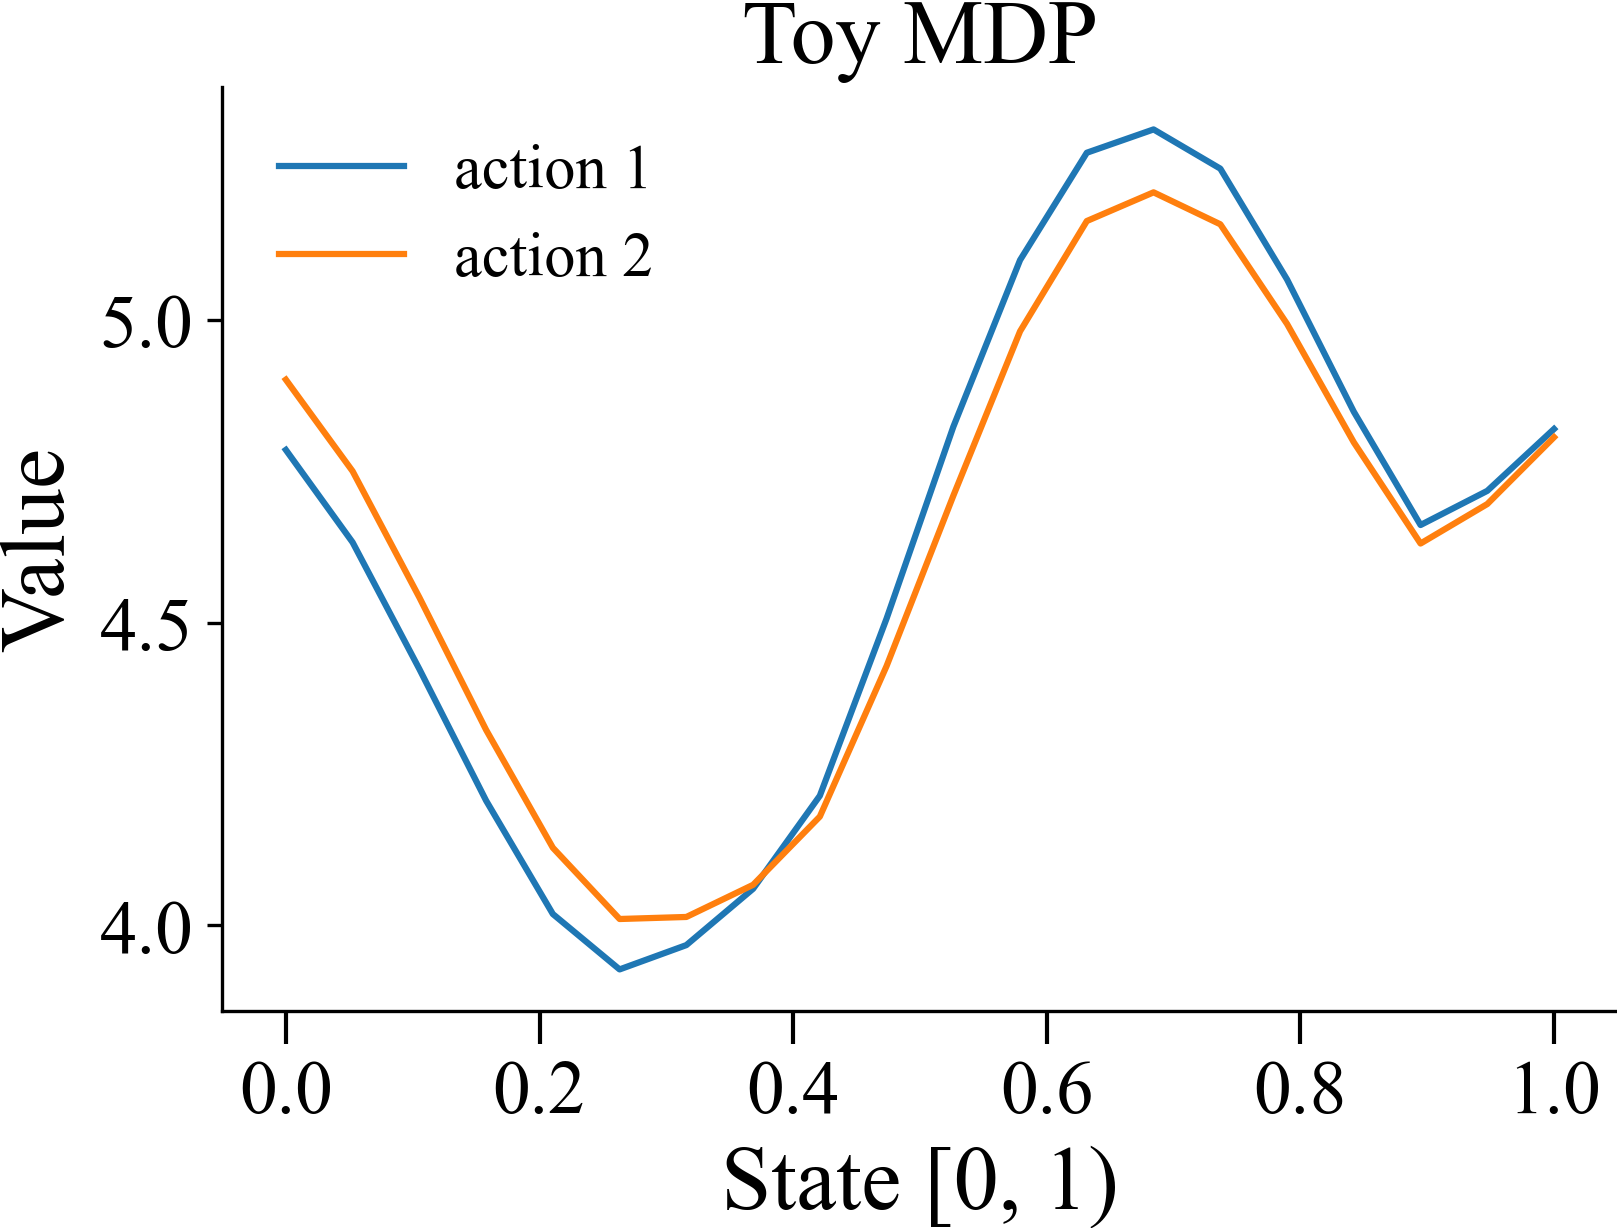
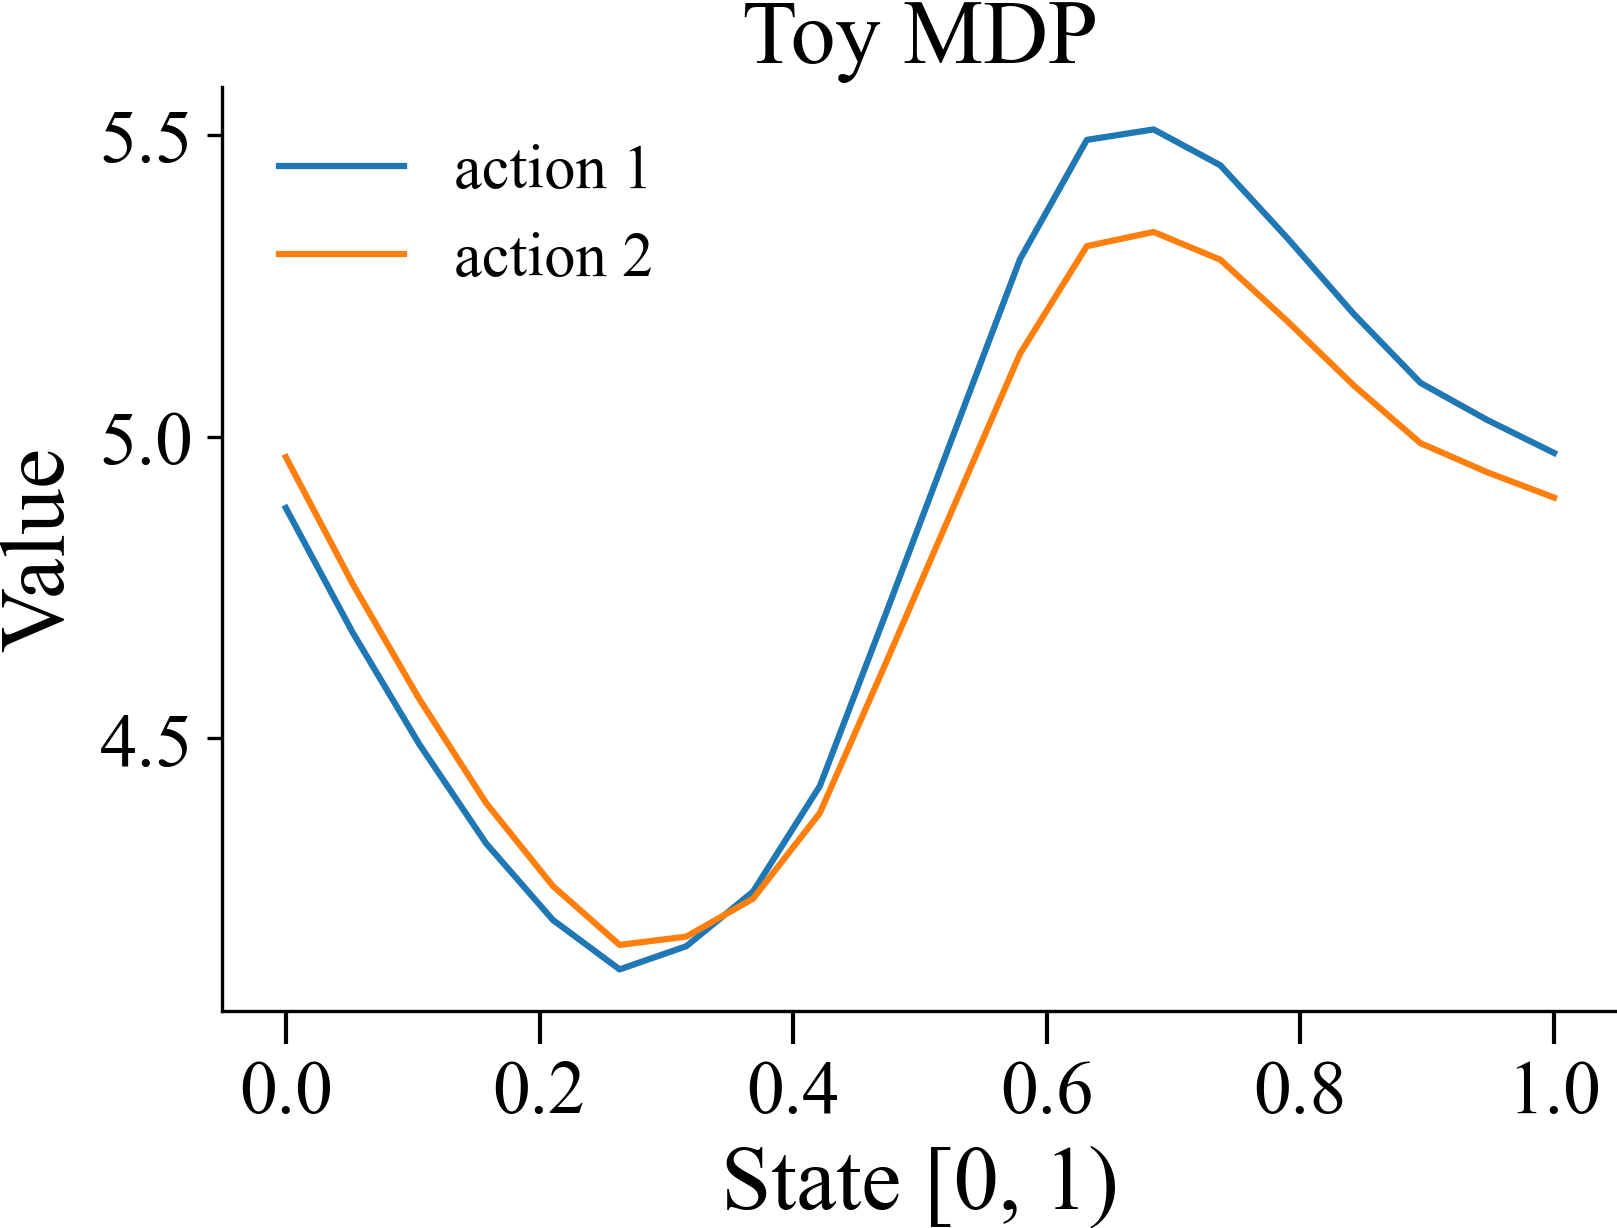
add supervised baseline supervised by the vi-values

diff --git a/toy_mdp/value_iteration.py b/toy_mdp/value_iteration.py
@@ -21,17 +21,55 @@ def perform_vi(states, rewards, dyn_mats, gamma=0.9, eps=1e-5):
     return q_values, deltas
 
 
-def perform_deep_vi(states, rewards, dyn_mats, lr=1e-4, gamma=0.9):
+def supervised(states, values, dyn_mats, lr=4e-4, gamma=0.9, n_epochs=100):
     import torch.nn as nn
     # Ge: need to initialize the Q function at zero
     Q = nn.Sequential(
-        nn.Linear(1, 2000),
+        nn.Linear(1, 400),
         nn.ReLU(),
-        nn.Linear(2000, 2000),
+        nn.Linear(400, 400),
         nn.ReLU(),
-        nn.Linear(2000, 2000),
+        nn.Linear(400, 400),
         nn.ReLU(),
-        nn.Linear(2000, 2),
+        nn.Linear(400, 400),
+        nn.ReLU(),
+        nn.Linear(400, 2),
+    )
+
+    optim = torch.optim.RMSprop(Q.parameters(), lr=lr)
+    l1 = nn.functional.smooth_l1_loss
+
+    states = torch.FloatTensor(states).unsqueeze(-1)
+    values = torch.FloatTensor(values)
+
+    losses = []
+
+    for epoch in trange(n_epochs + 1):
+        values_bar = Q(states)
+        loss = l1(values_bar, values.T)
+        losses.append(loss.detach().numpy())
+
+        optim.zero_grad()
+        loss.backward()
+        optim.step()
+
+    q_values = values_bar.T.detach().numpy()
+    return q_values, losses
+
+
+def perform_deep_vi(states, rewards, dyn_mats, lr=1e-4, gamma=0.9, n_epochs=400):
+    import torch.nn as nn
+    # Ge: need to initialize the Q function at zero
+    Q = nn.Sequential(
+        nn.Linear(1, 400),
+        nn.ReLU(),
+        nn.Linear(400, 400),
+        nn.ReLU(),
+        nn.Linear(400, 400),
+        nn.ReLU(),
+        nn.Linear(400, 400),
+        nn.ReLU(),
+        nn.Linear(400, 2),
     )
     Q_target = deepcopy(Q)
 
@@ -44,7 +82,7 @@ def perform_deep_vi(states, rewards, dyn_mats, lr=1e-4, gamma=0.9):
 
     losses = []
 
-    for epoch in trange(400):
+    for epoch in trange(n_epochs + 1):
         if epoch % 1 == 0:
             Q_target.load_state_dict(Q.state_dict())
 
@@ -63,18 +101,22 @@ def perform_deep_vi(states, rewards, dyn_mats, lr=1e-4, gamma=0.9):
 
 if __name__ == "__main__":
     doc @ """
+    ## Tabular Q-learning (Ground-truth)
+    
     Here is the ground truth value function generated via tabular
     value iteration. It shows even for simple dynamics, the value
     function can be exponentially more complex.
     """
-    with doc.table().figure_row() as r:
-        from rand_mdp import RandMDP
-        from matplotlib import pyplot as plt
+    from rand_mdp import RandMDP
+    from matplotlib import pyplot as plt
 
+    with doc:
         num_states = 20
         mdp = RandMDP(seed=0, option='fixed')
         states, rewards, dyn_mats = mdp.get_discrete_mdp(num_states=num_states)
         q_values, losses = perform_vi(states, rewards, dyn_mats)
+    q_values_vi = q_values  # used later
+    with doc.table().figure_row() as r:
         plt.plot(states, q_values[0], label="action 1")
         plt.plot(states, q_values[1], label="action 2")
         plt.title("Toy MDP")
@@ -92,18 +134,20 @@ if __name__ == "__main__":
         plt.close()
 
     doc @ """
+    ## DQN w/ Function Approximator
+    
     Here we plot the value function learned via deep Q Learning 
     (DQN) using a neural network function approximator.
     """
-    doc.flush()
 
-    with doc.table().figure_row() as r:
-        from rand_mdp import RandMDP
-        from matplotlib import pyplot as plt
+    from rand_mdp import RandMDP
+    from matplotlib import pyplot as plt
 
-        mdp = RandMDP(seed=0, option='fixed')
-        states, rewards, dyn_mats = mdp.get_discrete_mdp(num_states=num_states)
+    mdp = RandMDP(seed=0, option='fixed')
+    states, rewards, dyn_mats = mdp.get_discrete_mdp(num_states=num_states)
+    with doc:
         q_values, losses = perform_deep_vi(states, rewards, dyn_mats)
+    with doc.table().figure_row() as r:
         plt.plot(states, q_values[0], label="action 1")
         plt.plot(states, q_values[1], label="action 2")
         plt.title("Toy MDP")
@@ -120,4 +164,36 @@ if __name__ == "__main__":
         r.savefig(f'figures/td_loss.png?ts={doc.now("%f")}', dpi=300, zoom=0.3)
         plt.close()
 
+    doc @ """
+    ## A Supervised Baseline
+    
+    **But can the function learn these value functions?** As it turned out, no.
+    Even with a supervised learning objective, the learned value function is
+    not able to produce a good approximation of the value landscape. Not
+    with 20 states, and even less so with 200.
+    """
+    from rand_mdp import RandMDP
+    from matplotlib import pyplot as plt
+
+    num_states = 20
+    mdp = RandMDP(seed=0, option='fixed')
+    states, rewards, dyn_mats = mdp.get_discrete_mdp(num_states=num_states)
+    with doc:
+        q_values, losses = supervised(states, q_values_vi, dyn_mats)
+    with doc.table().figure_row() as r:
+        plt.plot(states, q_values[0], label="action 1")
+        plt.plot(states, q_values[1], label="action 2")
+        plt.title("Toy MDP")
+        plt.legend()
+        plt.xlabel('State [0, 1)')
+        plt.ylabel('Value')
+        r.savefig(f'figures/supervised.png?ts={doc.now("%f")}', dpi=300, zoom=0.3)
+        plt.close()
+
+        plt.plot(losses)
+        plt.hlines(0, 0, len(losses), linestyle='--', color='gray')
+        plt.title("Loss")
+        plt.xlabel('Optimization Steps')
+        r.savefig(f'figures/supervised_loss.png?ts={doc.now("%f")}', dpi=300, zoom=0.3)
+        plt.close()
     doc.flush()

diff --git a/toy_mdp/value_iteration.md b/toy_mdp/value_iteration.md
@@ -1,13 +1,41 @@
 
+## Tabular Q-learning (Ground-truth)
+
 Here is the ground truth value function generated via tabular
 value iteration. It shows even for simple dynamics, the value
 function can be exponentially more complex.
 
-| <img style="align-self:center; zoom:0.3;" src="figures/toy_mdp.png?ts=100530" image="None" styles="{'margin': '0.5em'}" width="None" height="None" dpi="300"/> | <img style="align-self:center; zoom:0.3;" src="figures/residual.png?ts=554376" image="None" styles="{'margin': '0.5em'}" width="None" height="None" dpi="300"/> |
+```python
+num_states = 20
+mdp = RandMDP(seed=0, option='fixed')
+states, rewards, dyn_mats = mdp.get_discrete_mdp(num_states=num_states)
+q_values, losses = perform_vi(states, rewards, dyn_mats)
+```
+| <img style="align-self:center; zoom:0.3;" src="figures/toy_mdp.png?ts=063645" image="None" styles="{'margin': '0.5em'}" width="None" height="None" dpi="300"/> | <img style="align-self:center; zoom:0.3;" src="figures/residual.png?ts=331674" image="None" styles="{'margin': '0.5em'}" width="None" height="None" dpi="300"/> |
 |:--------------------------------------------------------------------------------------------------------------------------------------------------------------:|:---------------------------------------------------------------------------------------------------------------------------------------------------------------:|
 
 
+## DQN w/ Function Approximator
+
 Here we plot the value function learned via deep Q Learning 
 (DQN) using a neural network function approximator.
-| <img style="align-self:center; zoom:0.3;" src="figures/q_learning.png?ts=302681" image="None" styles="{'margin': '0.5em'}" width="None" height="None" dpi="300"/> | <img style="align-self:center; zoom:0.3;" src="figures/td_loss.png?ts=685778" image="None" styles="{'margin': '0.5em'}" width="None" height="None" dpi="300"/> |
+
+```python
+q_values, losses = perform_deep_vi(states, rewards, dyn_mats)
+```
+| <img style="align-self:center; zoom:0.3;" src="figures/q_learning.png?ts=850512" image="None" styles="{'margin': '0.5em'}" width="None" height="None" dpi="300"/> | <img style="align-self:center; zoom:0.3;" src="figures/td_loss.png?ts=549964" image="None" styles="{'margin': '0.5em'}" width="None" height="None" dpi="300"/> |
 |:-----------------------------------------------------------------------------------------------------------------------------------------------------------------:|:--------------------------------------------------------------------------------------------------------------------------------------------------------------:|
+
+
+## A Supervised Baseline
+
+**But can the function learn these value functions?** As it turned out, no.
+Even with a supervised learning objective, the learned value function is
+not able to produce a good approximation of the value landscape. Not
+with 20 states, and even less so with 200.
+
+```python
+q_values, losses = supervised(states, q_values_vi, dyn_mats)
+```
+| <img style="align-self:center; zoom:0.3;" src="figures/supervised.png?ts=798241" image="None" styles="{'margin': '0.5em'}" width="None" height="None" dpi="300"/> | <img style="align-self:center; zoom:0.3;" src="figures/supervised_loss.png?ts=085224" image="None" styles="{'margin': '0.5em'}" width="None" height="None" dpi="300"/> |
+|:-----------------------------------------------------------------------------------------------------------------------------------------------------------------:|:----------------------------------------------------------------------------------------------------------------------------------------------------------------------:|
